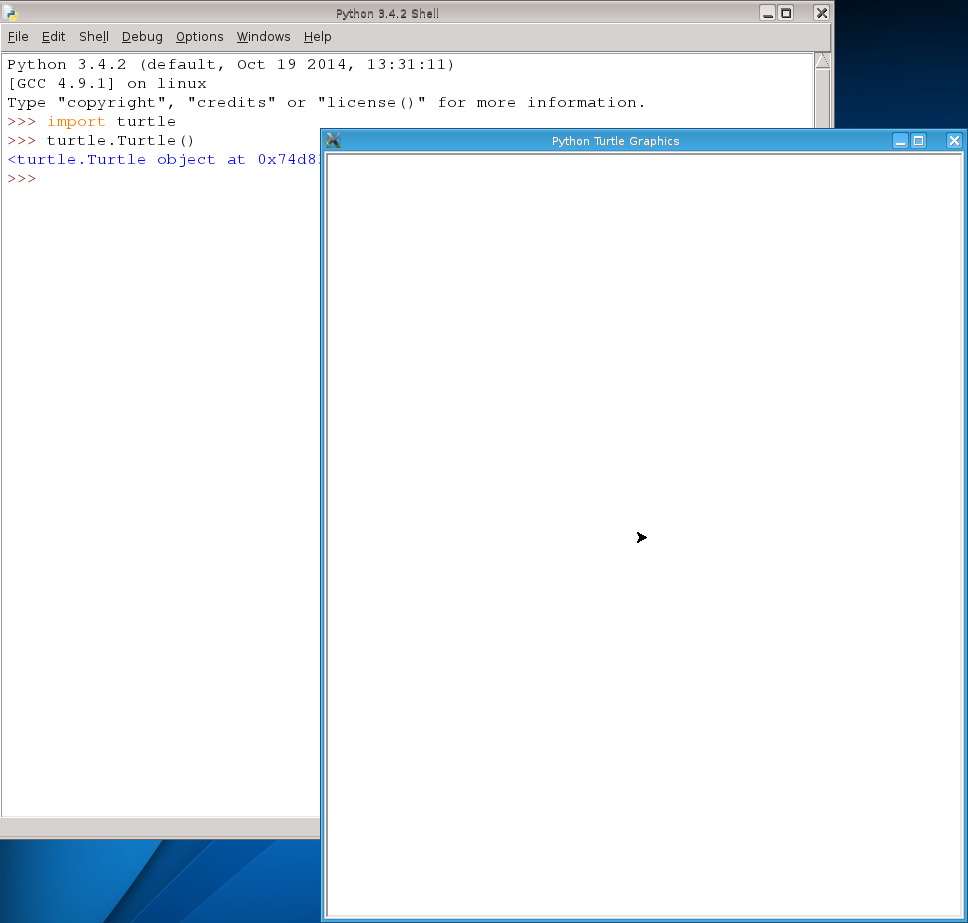
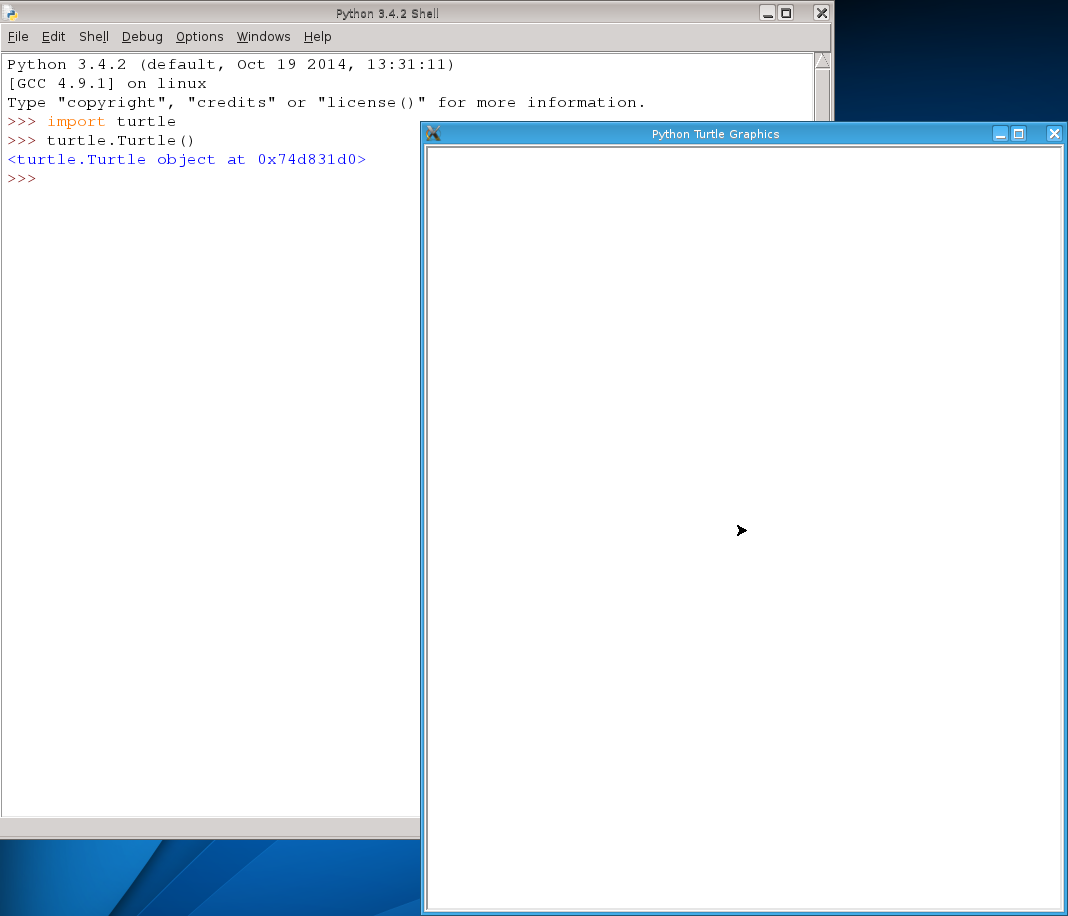
More screenshot changes / additions

Changed region(s): [[0.0, 0.0, 1.0, 1.0], [0.093, 0.9782, 0.124, 1.0]]

diff --git a/preamble.tex b/preamble.tex
@@ -72,10 +72,9 @@
 % Chapter quotes
 
 \makeatletter
-\newenvironment{chapquote}[2][2em]
-  {\setlength{\@tempdima}{#1}%
-   \def\chapquote@author{#2}%
+\newenvironment{chapquote}[1]
+  {\def\chapquote@author{#1}%
    \begin{flushright}\begin{minipage}{0.5\textwidth}\begin{flushright}%
    \itshape\large}
-  {\\[2mm]\normalfont\normalsize---\ \chapquote@author\end{flushright}\end{minipage}\end{flushright}\vspace{5mm}}
+  {\\[2mm]\normalfont\normalsize--- \chapquote@author\end{flushright}\end{minipage}\end{flushright}\vspace{5mm}}
 \makeatother

diff --git a/chapters/First program.rst b/chapters/First program.rst
@@ -26,7 +26,11 @@ This will bring up a new window, the editor window.  The shortcut for this is to
     :width: 90%
     :align: center
 
-.. tip:: The best arrangement is to have your interactive shell on the left and the editor window on the right.  You can do this on the Raspberry Pi by using the mouse, clicking on the interactive shell title bar using the left mouse button (keeping it pressed down) and try to pull the top of the interactive window past the left hand side of the screen - it should then snap into a shape that takes up the left 50% of your screen.  Do a similiar procedure with the editor window, but try to drag it past the right side of the screen.  You will then have the two windows you need to see, side by side.
+.. tip:: The best arrangement is to have your interactive shell on the left and the editor window on the right.  You can do this on the Raspberry Pi by using the mouse, clicking on the interactive shell title bar using the left mouse button (keeping it pressed down) and try to pull the top of the interactive window past the left hand side of the screen - it should then snap into a shape that takes up the left 50% of your screen.  Do a similar procedure with the editor window, but try to drag it past the right side of the screen.  You will then have the two windows you need to see, side by side:
+    
+    .. image:: /images/screenshots/idle_side_by_side.png
+        :width: 90%
+        :align: center
 
 The scene is set.
 
